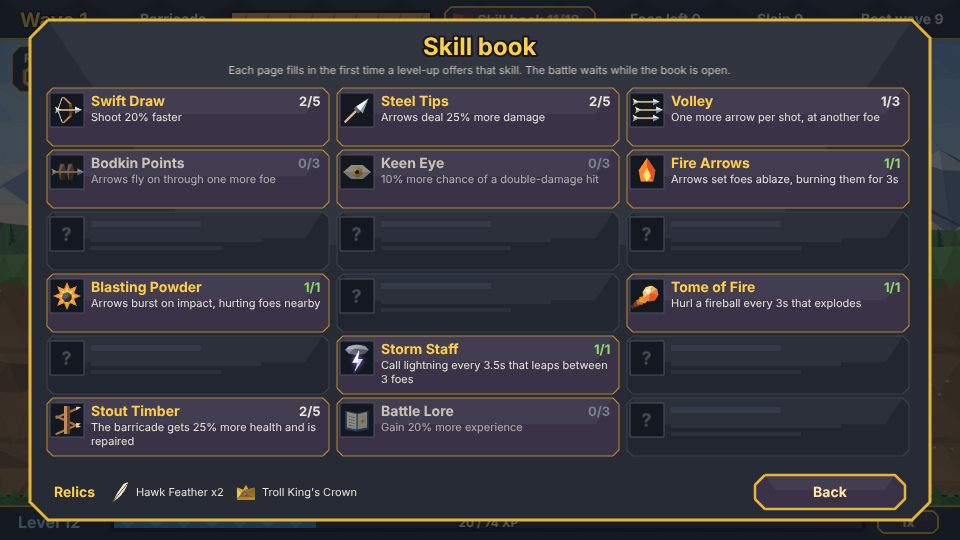
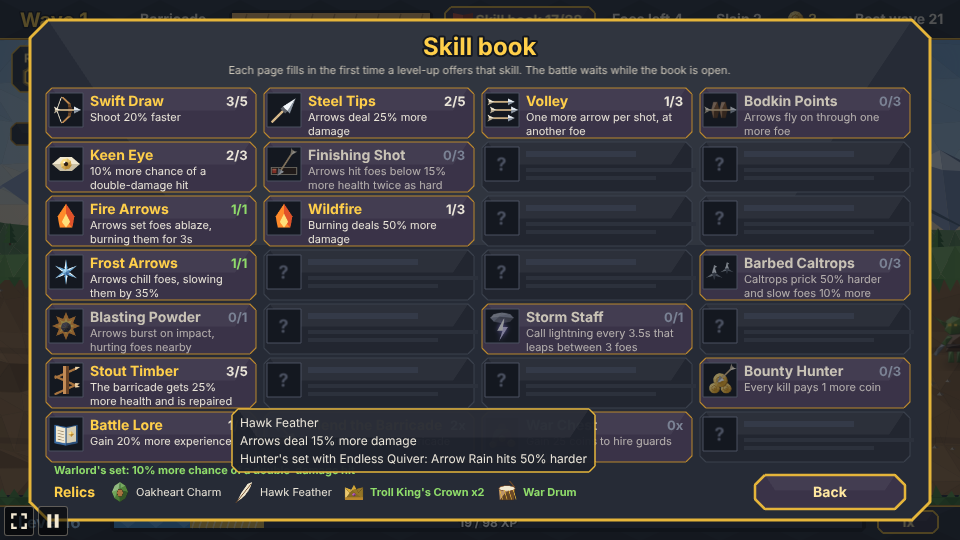
Palisade: barricade and relic tooltips, skill book sorted by theme
Hovering over the barricade's health bar shows its health, what Stout
Timber adds and how much it mends after each wave. The skill book lists
its pages one theme a row in the same 4x7 grid, and hovering over a
relic there shows what it does and its set.

Created with Opus 5.5 (low)

diff --git a/games/palisade/src/ui/SkillBook.ts b/games/palisade/src/ui/SkillBook.ts
@@ -3,8 +3,8 @@ import { iconTexture, relicTexture } from '../art/icons';
 import { fit } from '../art/lowpoly';
 import { GOLD, SLATE } from '../art/palette';
 import { SKILL_BOOK, UI_DEPTH, VIEW } from '../scenes/layout';
-import { RELIC_IDS, RELICS, SETS, setComplete, type RelicId } from '../game/relics';
-import { UPGRADE_IDS, UPGRADES, type UpgradeId } from '../game/upgrades';
+import { RELIC_IDS, RELICS, SETS, setComplete, setRelics, type RelicId } from '../game/relics';
+import { BOOK_ORDER, UPGRADE_IDS, UPGRADES, type UpgradeId } from '../game/upgrades';
 import { drawPanel, makeButton, textStyle } from './panel';
 
 /**
@@ -22,6 +22,10 @@ export class SkillBook {
   private slots: Phaser.GameObjects.Container;
   private relics: Phaser.GameObjects.Container;
   private shown = '';
+  /** The tooltip shown while the pointer is over a relic along the bottom. */
+  private relicTip: Phaser.GameObjects.Container;
+  private relicTipBg: Phaser.GameObjects.Graphics;
+  private relicTipText: Phaser.GameObjects.Text;
 
   constructor(private scene: Phaser.Scene) {
     const { x, y, w, h } = SKILL_BOOK.button;
@@ -62,8 +66,11 @@ export class SkillBook {
     this.slots = scene.add.container(0, 0);
     this.relics = scene.add.container(0, 0);
     const close = makeButton(scene, VIEW.w / 2 + p.w / 2 - 100, VIEW.h / 2 + p.h / 2 - 28, 150, 34, 'Back', () => this.setOpen(false));
+    this.relicTipBg = scene.add.graphics();
+    this.relicTipText = scene.add.text(0, 0, '', { ...textStyle(12, '#e9e4d8'), fontStyle: 'normal', lineSpacing: 3 }).setOrigin(0);
+    this.relicTip = scene.add.container(0, 0, [this.relicTipBg, this.relicTipText]).setVisible(false);
     this.root = scene.add
-      .container(0, 0, [dim, panel, page, title, note, this.slots, this.relics, close])
+      .container(0, 0, [dim, panel, page, title, note, this.slots, this.relics, close, this.relicTip])
       .setDepth(UI_DEPTH + 30)
       .setVisible(false);
   }
@@ -76,13 +83,13 @@ export class SkillBook {
     this.buttonText.setText(`Skill book ${found.size}/${UPGRADE_IDS.length}`);
     this.button.setVisible(!hidden);
     if (hidden) this.setOpen(false);
-    const key = UPGRADE_IDS.map((id) => (found.has(id) ? ranks[id] ?? 0 : '-')).join() + '|' + RELIC_IDS.map((id) => relics[id] ?? 0).join();
+    const key = BOOK_ORDER.map((id) => (found.has(id) ? ranks[id] ?? 0 : '-')).join() + '|' + RELIC_IDS.map((id) => relics[id] ?? 0).join();
     if (key === this.shown) return;
     this.shown = key;
     this.slots.removeAll(true);
     const { cols, colW, rowH, top } = SKILL_BOOK;
     const left = VIEW.w / 2 - (cols * colW) / 2;
-    UPGRADE_IDS.forEach((id, i) => {
+    BOOK_ORDER.forEach((id, i) => {
       const x = left + (i % cols) * colW;
       const y = top + Math.floor(i / cols) * rowH;
       this.addSlot(id, x, y, found.has(id), ranks[id] ?? 0);
@@ -93,6 +100,7 @@ export class SkillBook {
   /** The relics won so far, along the bottom of the book. */
   private showRelics(relics: Partial<Record<RelicId, number>>) {
     this.relics.removeAll(true);
+    this.relicTip.setVisible(false);
     const scene = this.scene;
     const y = VIEW.h / 2 + SKILL_BOOK.panel.h / 2 - 28;
     let x = VIEW.w / 2 - SKILL_BOOK.panel.w / 2 + 24;
@@ -114,6 +122,10 @@ export class SkillBook {
         .text(x + 28, y, n > 1 ? `${RELICS[id].name} x${n}` : RELICS[id].name, { ...textStyle(11, done ? '#8fdc6a' : '#e9e4d8'), fontStyle: done ? 'bold' : 'normal' })
         .setOrigin(0, 0.5);
       this.relics.add(name);
+      const zone = scene.add.zone(x, y - 14, 30 + name.width, 28).setOrigin(0).setInteractive();
+      const left = x;
+      zone.on('pointerover', () => this.showRelicTip(id, relics, left, y - 20)).on('pointerout', () => this.relicTip.setVisible(false));
+      this.relics.add(zone);
       x += 38 + name.width;
     }
     const sets = Object.entries(SETS).filter(([id]) => setComplete(relics, id as keyof typeof SETS));
@@ -121,6 +133,29 @@ export class SkillBook {
       const line = sets.map(([, set]) => `${set.name}: ${set.text}`).join('   ');
       this.relics.add(scene.add.text(VIEW.w / 2 - SKILL_BOOK.panel.w / 2 + 24, y - 22, line, textStyle(11, '#8fdc6a')).setOrigin(0, 0.5));
     }
+  }
+
+  /** The relic's name, what it does, how many are held and its set, in a box above it. */
+  private showRelicTip(id: RelicId, relics: Partial<Record<RelicId, number>>, x: number, bottom: number) {
+    const relic = RELICS[id];
+    const n = relics[id] ?? 0;
+    const set = SETS[relic.set];
+    const others = setRelics(relic.set).filter((other) => other !== id).map((other) => RELICS[other].name);
+    const done = setComplete(relics, relic.set);
+    this.relicTipText.setText([
+      n > 1 ? `${relic.name} x${n} (stacks)` : relic.name,
+      relic.text,
+      `${set.name} with ${others.join(' and ')}: ${set.text}${done ? ' (complete)' : ''}`,
+    ]);
+    const w = this.relicTipText.width + 16;
+    const h = this.relicTipText.height + 12;
+    // Kept inside the book's page.
+    const right = VIEW.w / 2 + SKILL_BOOK.panel.w / 2 - 12;
+    const left = Math.min(x, right - w);
+    this.relicTipBg.clear();
+    drawPanel(this.relicTipBg, left, bottom - h, w, h, { c: 6, fill: 0x1e222c, alpha: 0.97, lw: 1.5 });
+    this.relicTipText.setPosition(left + 8, bottom - h + 6);
+    this.relicTip.setVisible(true);
   }
 
   private addSlot(id: UpgradeId, x: number, y: number, found: boolean, rank: number) {

diff --git a/games/palisade/src/scenes/GameScene.ts b/games/palisade/src/scenes/GameScene.ts
@@ -56,7 +56,7 @@ import { LevelUp } from '../ui/LevelUp';
 import { RoadChoice } from '../ui/RoadChoice';
 import { chamferPts, drawPanel, makeButton, textStyle } from '../ui/panel';
 import { SkillBook } from '../ui/SkillBook';
-import { AIM, BARRICADE, BOSS_BAR, CALTROPS, FORTIFY, GUARD_HIT, HEAT, HERO_FEET, HUD_HEIGHT, RAIN, RAIN_HINT, ROAR_CHIP, SPEED, STREAK, TRACK, UI_DEPTH, VIEW, XP_BAR } from './layout';
+import { AIM, BARRICADE, BARRICADE_BAR, BARRICADE_TIP_W, BOSS_BAR, CALTROPS, FORTIFY, GUARD_HIT, HEAT, HERO_FEET, HUD_HEIGHT, RAIN, RAIN_HINT, ROAR_CHIP, SPEED, STREAK, TRACK, UI_DEPTH, VIEW, XP_BAR } from './layout';
 
 /** Longest simulated step, so a backgrounded tab doesn't jump the battle forward. */
 const MAX_STEP_MS = 250;
@@ -120,6 +120,9 @@ export class GameScene extends Phaser.Scene {
   private fx!: Phaser.GameObjects.Graphics;
   private glow!: Phaser.GameObjects.Graphics;
   private hud!: Phaser.GameObjects.Graphics;
+  /** The tooltip shown while the pointer is over the barricade's health bar. */
+  private barricadeTip!: Phaser.GameObjects.Container;
+  private barricadeTipText!: Phaser.GameObjects.Text;
   private trackG!: Phaser.GameObjects.Graphics;
   private aimG!: Phaser.GameObjects.Graphics;
   private waveText!: Phaser.GameObjects.Text;
@@ -654,6 +657,7 @@ export class GameScene extends Phaser.Scene {
       this.add.text(x, 19, text, textStyle(size, color)).setOrigin(0, 0.5).setDepth(UI_DEPTH + 1);
     this.waveText = top(18, '', '#ffcf4a', 20).setStroke('#141820', 3);
     top(140, 'Barricade');
+    this.createBarricadeTip();
     this.foesText = top(612, '');
     this.slainText = top(716, '');
     fit(this.add.image(796, 19, 'hud-coin')).setDepth(UI_DEPTH + 1);
@@ -672,15 +676,48 @@ export class GameScene extends Phaser.Scene {
     this.streakBonusText = this.add.text(STREAK.x + STREAK.w / 2 - 8, STREAK.y, '', textStyle(12, '#ffe07a')).setOrigin(1, 0.5).setDepth(UI_DEPTH + 2);
   }
 
+  /**
+   * Hovering over the barricade's health bar (or tapping it) shows its health, what Stout Timber
+   * adds and how much it is repaired after each wave, under the bar.
+   */
+  private createBarricadeTip() {
+    const { x, w } = BARRICADE_BAR;
+    const bg = this.add.graphics();
+    drawPanel(bg, x - 3, 34, BARRICADE_TIP_W, 70, { c: 6, fill: 0x1e222c, alpha: 0.95, lw: 1.5 });
+    this.barricadeTipText = this.add
+      .text(x + 7, 41, '', { ...textStyle(13, '#e9e4d8'), fontStyle: 'normal', lineSpacing: 3 })
+      .setOrigin(0);
+    this.barricadeTip = this.add.container(0, 0, [bg, this.barricadeTipText]).setDepth(UI_DEPTH + 9).setVisible(false);
+    this.add
+      .zone(x - 3, 10, w + 6, 20)
+      .setOrigin(0)
+      .setDepth(UI_DEPTH + 1)
+      .setInteractive()
+      .on('pointerover', () => this.barricadeTip.setVisible(true))
+      .on('pointerout', () => this.barricadeTip.setVisible(false));
+  }
+
+  private drawBarricadeTip() {
+    if (!this.barricadeTip.visible) return;
+    const s = this.state;
+    const st = stats(s);
+    const timber = s.ranks.timber ?? 0;
+    this.barricadeTipText.setText([
+      `Health ${Math.ceil(Math.max(0, s.barricade.hp))} / ${s.barricade.max}`,
+      timber > 0 ? `Stout Timber rank ${timber}: +${timber * 25}% health` : 'Stout Timber adds 25% health a rank',
+      `Repairs ${Math.round(st.repair * 100)}% after each wave`,
+    ]);
+  }
+
   private drawHud() {
     const s = this.state;
     const g = this.hud;
     g.clear();
     this.waveText.setText(`Wave ${s.wave}`);
+    this.drawBarricadeTip();
 
     // The barricade's health in the top bar.
-    const bx = 232;
-    const bw = 198;
+    const { x: bx, w: bw } = BARRICADE_BAR;
     const hp = Phaser.Math.Clamp(s.barricade.hp / s.barricade.max, 0, 1);
     g.fillStyle(SLATE.dark).fillPoints(chamferPts(bx - 3, 10, bw + 6, 20, 4), true);
     g.fillStyle(BAR.empty).fillRect(bx, 13, bw, 14);

diff --git a/games/palisade/src/game/upgrades.ts b/games/palisade/src/game/upgrades.ts
@@ -111,3 +111,18 @@ export const BASE_SKILLS: UpgradeId[] = ['swift', 'sharp', 'timber'];
 export const PURSE_COINS = 25;
 
 export const UPGRADE_IDS = Object.keys(UPGRADES) as UpgradeId[];
+
+/**
+ * The skill book's order, one theme a row of four: the bow, harder hits, fire, chill and slow,
+ * powder and lightning, the barricade and guards, then experience and the fillers. Only the book
+ * reads it; `UPGRADE_IDS` keeps the table's order, which the level-up's random picks depend on.
+ */
+export const BOOK_ORDER: UpgradeId[] = [
+  'swift', 'sharp', 'volley', 'pierce',
+  'crit', 'finisher', 'slayer', 'cloudburst',
+  'fire', 'wildfire', 'fireball', 'pyromancy',
+  'frost', 'deepFreeze', 'shatter', 'barbs',
+  'blast', 'bigBlast', 'storm', 'forked',
+  'timber', 'stakes', 'drill', 'bounty',
+  'lore', 'mend', 'purse', 'wind',
+];

diff --git a/games/palisade/src/scenes/layout.ts b/games/palisade/src/scenes/layout.ts
@@ -10,6 +10,10 @@ export const BARRICADE = { x: 112, y: 250 };
 export const XP_BAR = { x: 112, y: 514, w: 752, h: 16 };
 /** The 1x/2x speed switch, right of the experience bar, by its centre. */
 export const SPEED = { x: 908, y: 522, w: 60, h: 22 };
+/** The barricade's health bar in the top bar (its fill, inside a 3px frame, 14px tall at y 13). */
+export const BARRICADE_BAR = { x: 232, w: 198 };
+/** Width of the tooltip shown under the barricade's bar while it is hovered. */
+export const BARRICADE_TIP_W = 250;
 /** The boss's stacked health bars, by their top centre, right of the wave track. */
 export const BOSS_BAR = { x: 640, y: 66, w: 400, h: 14 };
 /** The wave track under the top bar: its panel, and the first of its ten marks and their spacing. */

diff --git a/games/palisade/AGENTS.md b/games/palisade/AGENTS.md
@@ -167,8 +167,9 @@ seconds without a tap.
     `nextAim`, `sortTargets`.
   - `enemies.ts`: the `ENEMIES` table of wave 1 stats per `EnemyKind` (with `coins` and the
     `flying`, `shield` and `healer` flags), the three bosses included.
-  - `upgrades.ts`: the `UPGRADES` table, `UpgradeId`, `Icon`, `UPGRADE_IDS`, `FILLERS` and
-    `PURSE_COINS`.
+  - `upgrades.ts`: the `UPGRADES` table, `UpgradeId`, `Icon`, `UPGRADE_IDS`, `BOOK_ORDER` (the
+    skill book's order only; the level-up's random picks follow `UPGRADE_IDS`), `FILLERS`,
+    `BASE_SKILLS` and `PURSE_COINS`.
   - `relics.ts`: the `RELICS` table, `RelicId`, `RELIC_IDS`, `SETS`, `SetId`, `SET_IDS`,
     `setRelics` and `setComplete`.
   - `guards.ts`: the `GUARDS` table, `GuardKind`, `GUARD_KINDS`, `MAX_GUARD_LEVEL`, `trainCost`,
@@ -191,7 +192,7 @@ seconds without a tap.
 - `src/scenes/layout.ts`: screen positions (`HERO_FEET`, `BARRICADE`, `XP_BAR`, `BOSS_BAR`,
   `TRACK`, `RAIN`, `CALTROPS`, `AIM`, `FORTIFY` (with its panel's size), `HEAT`, `ROAR_CHIP`,
   `GUARD_HIT`, `HIRE`, `ROAD_CARDS`, `RAIN_HINT`, `STREAK`, `CARDS`,
-  `COUNTDOWN`, `SKILL_BOOK`, `SPEED`, `BUTTON`),
+  `COUNTDOWN`, `SKILL_BOOK`, `SPEED`, `BUTTON`, `BARRICADE_BAR`, `BARRICADE_TIP_W`),
   `HUD_HEIGHT`, `UI_DEPTH`, `FONT` (a system font stack).
 - `src/ui/LevelUp.ts`: the level-up overlay, its cards and the auto-pick countdown (seconds left
   over an emptying bar, at `COUNTDOWN`). It records each card's spot in `cards`.
@@ -206,8 +207,11 @@ seconds without a tap.
   cost, greyed out when the coins are short or this break's one is bought) and a dim backdrop that
   closes it. `open` tells the scene to hold everything still.
 - `src/ui/SkillBook.ts`: the "Skill book found/total" button in the top bar and the book it opens,
-  a 4x7 grid with a slot for every id in `UPGRADE_IDS` order (the three fillers last), and the
-  relics won along the bottom (a full set's relics in green, its bonus above them).
+  a 4x7 grid with a slot for every id in `BOOK_ORDER` (`upgrades.ts`: one theme a row, the bow,
+  harder hits, fire, chill and slow, powder and lightning, the barricade and guards, then Battle
+  Lore and the three fillers), and the relics won along the bottom (a full set's relics in green,
+  its bonus above them). Hovering over a relic (a zone over its icon and name) shows `relicTip`:
+  its name and count, its text and its set with the other relic and the set's bonus.
   A slot not yet in `found` is an empty placeholder (a "?" frame and blank lines); a found one
   shows icon, name, rank of max (`Nx` for a filler, how many times it was picked) and
   `text`, dimmed at rank 0. Its `open` flag tells the scene to hold everything still.
@@ -277,6 +281,9 @@ seconds without a tap.
   auto-pick countdown all wait. The button sits above the level-up overlay (depth `UI_DEPTH + 15`)
   so it works while choosing, and hides after a fall. Shooting is automatic. A dimming rectangle
   under each overlay is interactive, so taps on the battle are swallowed.
+  A zone over the barricade's health bar in the top bar shows `barricadeTip` on `pointerover`
+  (health of max, Stout Timber's rank and bonus, and `stats().repair` after each wave, refreshed by
+  `drawBarricadeTip` each frame) and hides it on `pointerout`; on a phone a tap shows it.
 - **Skill book:** after each `tick`, `GameScene.discover` adds every id in `choices` and `ranks`
   to `found` (so an old save's upgrades count as found), and the three `FILLERS` once `mastered`
   (an older save that learned everything before Second Wind could be offered), and saves it when
@@ -527,7 +534,7 @@ fortifications' in `forts.ts` and the heats' in `heat.ts`. Arrow Rain's damage (
 ## Gotchas
 
 - Positions live in two places. The rule geometry is in `state.ts`, and the draw positions are in
-  `layout.ts` and partly hard-coded in `GameScene` (the barricade bar at x 232, the banner and
+  `layout.ts` and partly hard-coded in `GameScene` (the banner and
   relic panel at y 170, the game-over panel, the top bar's texts) and in `scenery.ts` (the log at
   double-unit x 365, `BARRICADE_TEX`). Moving the barricade art means moving `BARRICADE` and
   `BARRICADE_FRONT` too.

diff --git a/games/palisade/README.md b/games/palisade/README.md
@@ -33,6 +33,7 @@ wave 30 lifts the siege, which wins the run and unlocks the next heat.
 | Tap or click a card | Take that upgrade when a level-up comes up (after 10 seconds one is taken at random) |
 | 1x / 2x (bottom right) | Switch the battle between normal and double speed; the level-up countdown stays 10 real seconds |
 | Skill book (in the top bar) | Open the skill book; the battle waits until Back |
+| Hover over (or tap) the barricade's bar | Show its health, what Stout Timber adds and how much it mends after each wave |
 | Fight again / New hero | After a fall: start again from wave 1 keeping the hero, or with a new one; the "Next run at" row picks the heat |
 
 1. **Waves**: each wave brings more foes than the last, with more health. A short break with the
@@ -281,15 +282,17 @@ stronger for as long as the waves keep coming.
 ![Three of the newer skills on a level-up](docs/screenshots/new-skills-level-up.png)
 
 The skill book (its button in the top bar shows how many skills are found, such as "Skill book
-8/28") has a page for every upgrade and filler. The pages start as empty placeholders, and each fills in the
+8/28") has a page for every upgrade and filler, one theme a row: the bow, harder hits, fire, chill
+and slow, powder and lightning, the barricade and guards, then Battle Lore and the fillers. The pages start as empty placeholders, and each fills in the
 first time a level-up offers that upgrade, with its icon, what a rank does and the hero's rank
 (dimmed while it has none; for a filler, how many times it was picked, such as "2x"). Along its
-bottom it lists the relics won, with the bonus of each full set. The book stays filled for a new hero. It opens during a
+bottom it lists the relics won, with the bonus of each full set; hovering over a relic shows what
+it does and which set it belongs to. The book stays filled for a new hero. It opens during a
 level-up too, to check what the hero has before choosing.
 
 ![The empty skill book of a new hero](docs/screenshots/skill-book-empty.png)
-![A skill book part filled in, with two relics](docs/screenshots/skill-book.png)
-![A full skill book with the Warden's set](docs/screenshots/skill-book-sets.png)
+![A skill book part filled in, sorted by theme, with a relic's tooltip](docs/screenshots/skill-book.png)
+![The barricade's tooltip in the top bar](docs/screenshots/barricade-tooltip.png)
 ![The skill book with all 28 skills](docs/screenshots/skill-book-new-skills.png)
 
 The switch at the right end of the experience bar plays the battle at double speed. It lights up
